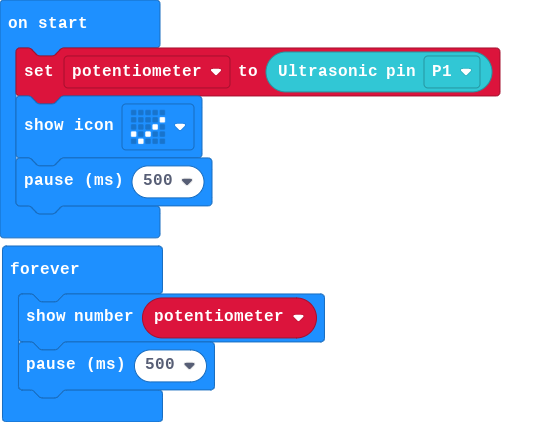
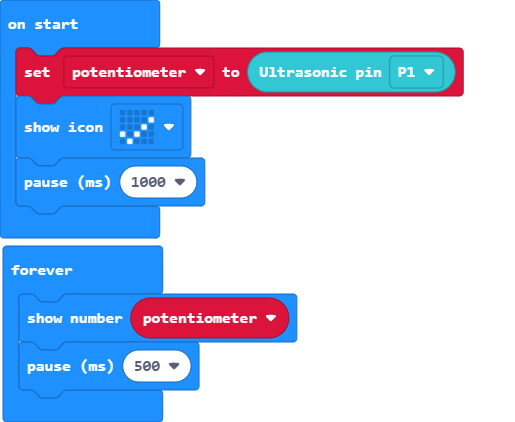
final commit

diff --git a/main.ts b/main.ts
@@ -1,6 +1,6 @@
 let potentiometer = robotbit.RgbUltrasonic(DigitalPin.P1)
 basic.showIcon(IconNames.Yes)
-basic.pause(500)
+basic.pause(1000)
 basic.forever(function () {
     basic.showNumber(potentiometer)
     basic.pause(500)
